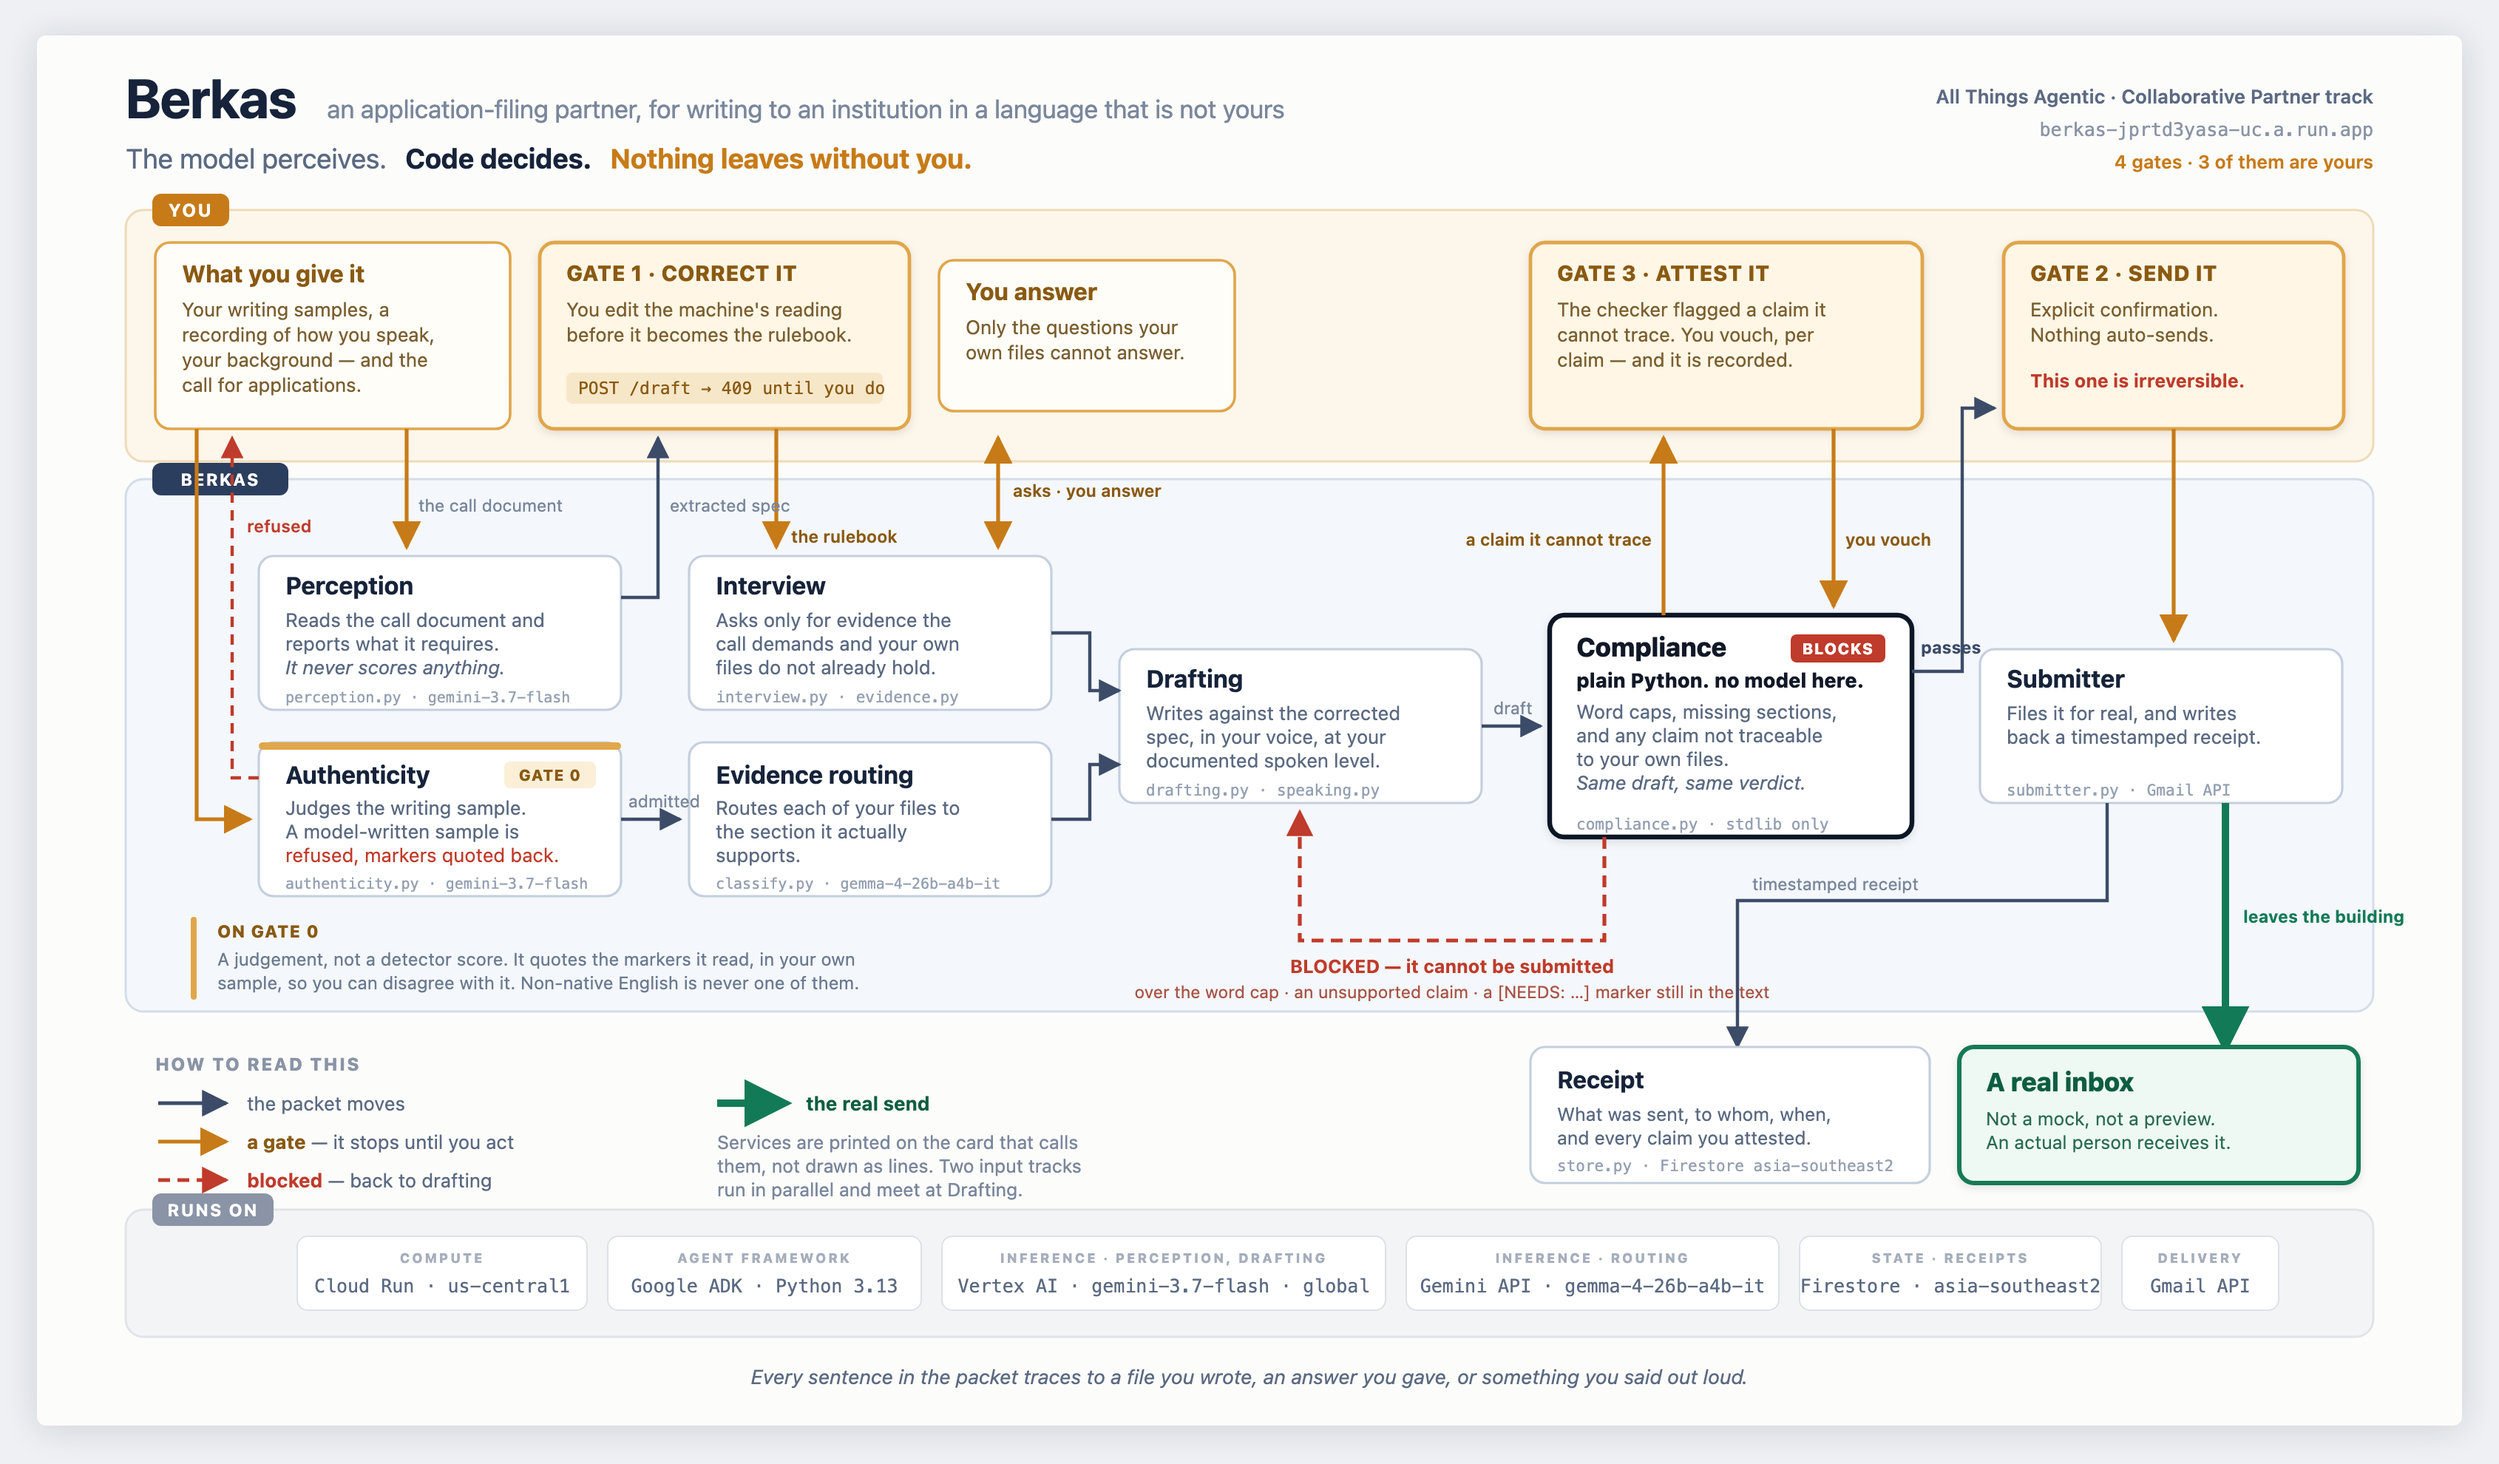
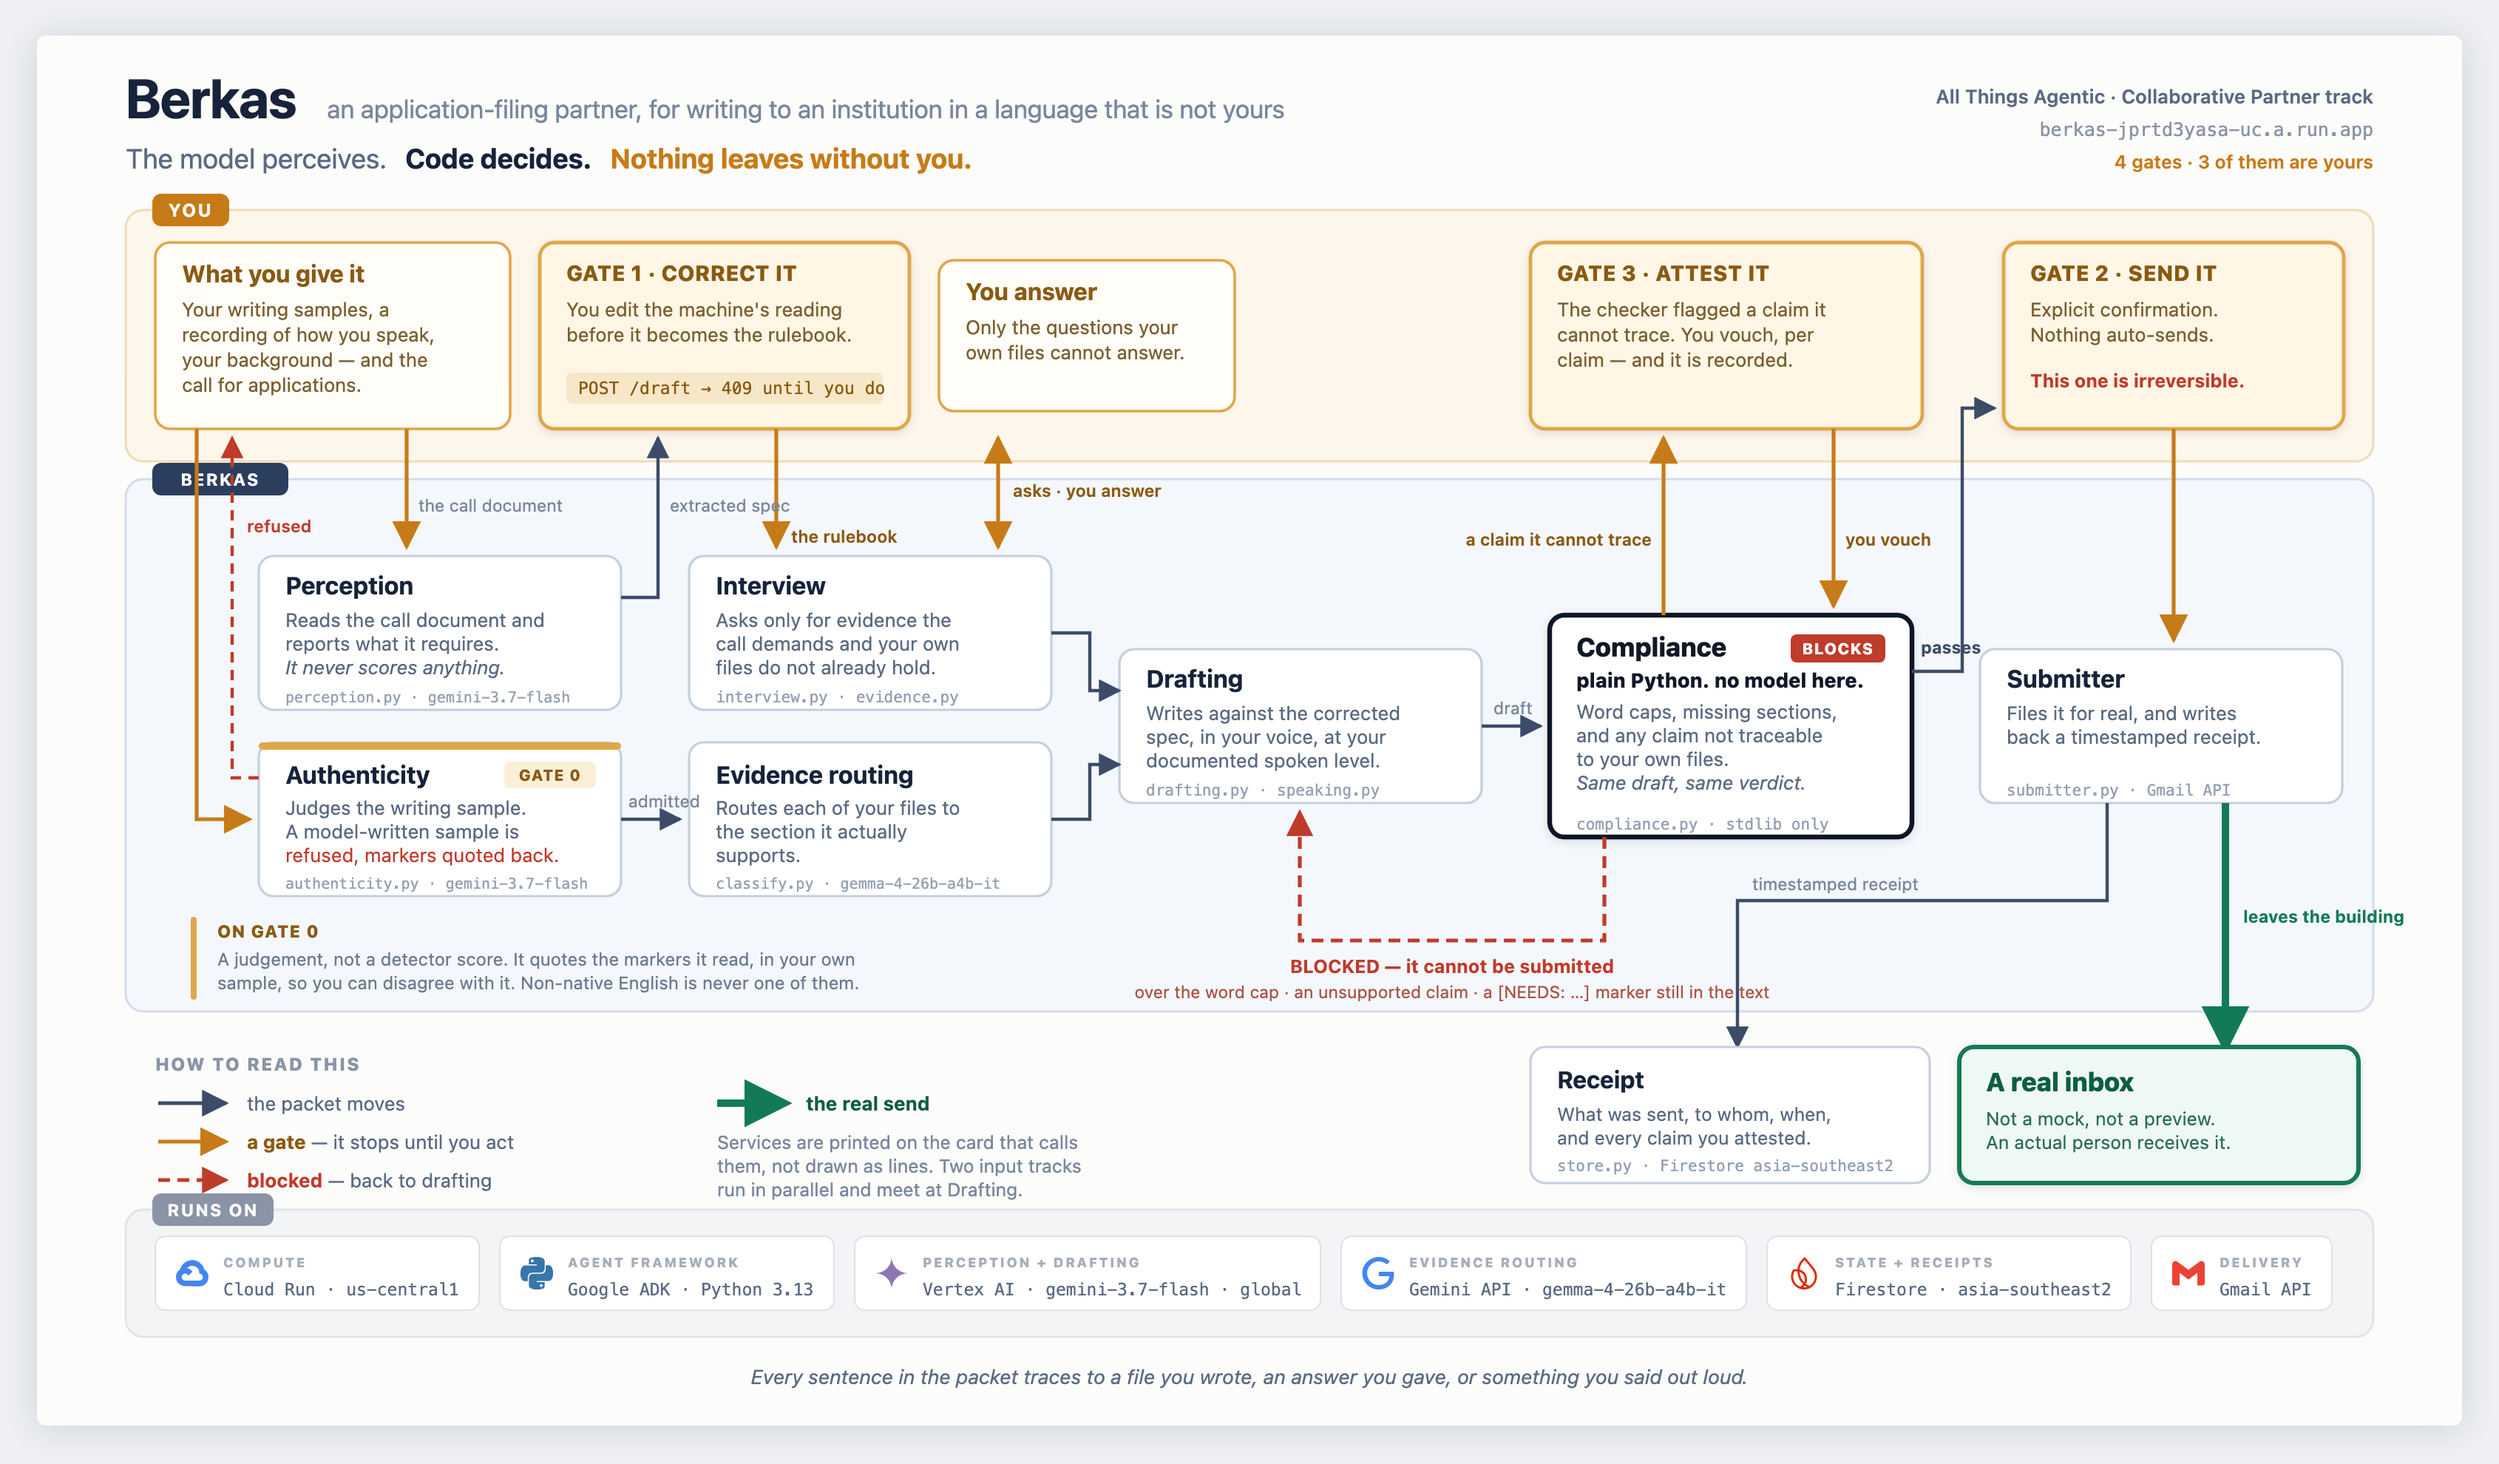
Diagram: real brand marks in the RUNS ON strip, inlined so it renders offline

Changed region(s): [[0.0621, 0.8318, 0.932, 0.8934]]

diff --git a/docs/architecture.html b/docs/architecture.html
@@ -203,29 +203,30 @@
 
 <!-- ============ RUNS ON ============ -->
 <g>
-  <rect x="176" y="812" width="196" height="50" rx="7" fill="#FFF" stroke="#DDE1E7"/>
-  <text x="274" y="830" text-anchor="middle" font-size="9" font-weight="800" fill="#A6AEBC" letter-spacing="1.3">COMPUTE</text>
-  <text x="274" y="850" text-anchor="middle" font-size="12.5" class="m" fill="#5B6A82">Cloud Run · us-central1</text>
-
-  <rect x="386" y="812" width="212" height="50" rx="7" fill="#FFF" stroke="#DDE1E7"/>
-  <text x="492" y="830" text-anchor="middle" font-size="9" font-weight="800" fill="#A6AEBC" letter-spacing="1.3">AGENT FRAMEWORK</text>
-  <text x="492" y="850" text-anchor="middle" font-size="12.5" class="m" fill="#5B6A82">Google ADK · Python 3.13</text>
-
-  <rect x="612" y="812" width="300" height="50" rx="7" fill="#FFF" stroke="#DDE1E7"/>
-  <text x="762" y="830" text-anchor="middle" font-size="9" font-weight="800" fill="#A6AEBC" letter-spacing="1.3">INFERENCE · PERCEPTION, DRAFTING</text>
-  <text x="762" y="850" text-anchor="middle" font-size="12.5" class="m" fill="#5B6A82">Vertex AI · gemini-3.7-flash · global</text>
-
-  <rect x="926" y="812" width="252" height="50" rx="7" fill="#FFF" stroke="#DDE1E7"/>
-  <text x="1052" y="830" text-anchor="middle" font-size="9" font-weight="800" fill="#A6AEBC" letter-spacing="1.3">INFERENCE · ROUTING</text>
-  <text x="1052" y="850" text-anchor="middle" font-size="12.5" class="m" fill="#5B6A82">Gemini API · gemma-4-26b-a4b-it</text>
-
-  <rect x="1192" y="812" width="204" height="50" rx="7" fill="#FFF" stroke="#DDE1E7"/>
-  <text x="1294" y="830" text-anchor="middle" font-size="9" font-weight="800" fill="#A6AEBC" letter-spacing="1.3">STATE · RECEIPTS</text>
-  <text x="1294" y="850" text-anchor="middle" font-size="12.5" class="m" fill="#5B6A82">Firestore · asia-southeast2</text>
-
-  <rect x="1410" y="812" width="106" height="50" rx="7" fill="#FFF" stroke="#DDE1E7"/>
-  <text x="1463" y="830" text-anchor="middle" font-size="9" font-weight="800" fill="#A6AEBC" letter-spacing="1.3">DELIVERY</text>
-  <text x="1463" y="850" text-anchor="middle" font-size="12.5" class="m" fill="#5B6A82">Gmail API</text>
+  <rect x="80" y="812" width="219" height="50" rx="7" fill="#FFF" stroke="#DDE1E7"/>
+  <g transform="translate(94,826) scale(0.91667)"><path d="M12.19 2.38a9.344 9.344 0 0 0-9.234 6.893c.053-.02-.055.013 0 0-3.875 2.551-3.922 8.11-.247 10.941l.006-.007-.007.03a6.717 6.717 0 0 0 4.077 1.356h5.173l.03.03h5.192c6.687.053 9.376-8.605 3.835-12.35a9.365 9.365 0 0 0-2.821-4.552l-.043.043.006-.05A9.344 9.344 0 0 0 12.19 2.38zm-.358 4.146c1.244-.04 2.518.368 3.486 1.15a5.186 5.186 0 0 1 1.862 4.078v.518c3.53-.07 3.53 5.262 0 5.193h-5.193l-.008.009v-.04H6.785a2.59 2.59 0 0 1-1.067-.23h.001a2.597 2.597 0 1 1 3.437-3.437l3.013-3.012A6.747 6.747 0 0 0 8.11 8.24c.018-.01.04-.026.054-.023a5.186 5.186 0 0 1 3.67-1.69z" fill="#4285F4"/></g>
+  <text x="126" y="833" font-size="9" font-weight="800" fill="#A6AEBC" letter-spacing="1.2">COMPUTE</text>
+  <text x="126" y="852" font-size="11.5" class="m" fill="#5B6A82">Cloud Run · us-central1</text>
+  <rect x="313" y="812" width="226" height="50" rx="7" fill="#FFF" stroke="#DDE1E7"/>
+  <g transform="translate(327,826) scale(0.91667)"><path d="M14.25.18l.9.2.73.26.59.3.45.32.34.34.25.34.16.33.1.3.04.26.02.2-.01.13V8.5l-.05.63-.13.55-.21.46-.26.38-.3.31-.33.25-.35.19-.35.14-.33.1-.3.07-.26.04-.21.02H8.77l-.69.05-.59.14-.5.22-.41.27-.33.32-.27.35-.2.36-.15.37-.1.35-.07.32-.04.27-.02.21v3.06H3.17l-.21-.03-.28-.07-.32-.12-.35-.18-.36-.26-.36-.36-.35-.46-.32-.59-.28-.73-.21-.88-.14-1.05-.05-1.23.06-1.22.16-1.04.24-.87.32-.71.36-.57.4-.44.42-.33.42-.24.4-.16.36-.1.32-.05.24-.01h.16l.06.01h8.16v-.83H6.18l-.01-2.75-.02-.37.05-.34.11-.31.17-.28.25-.26.31-.23.38-.2.44-.18.51-.15.58-.12.64-.1.71-.06.77-.04.84-.02 1.27.05zm-6.3 1.98l-.23.33-.08.41.08.41.23.34.33.22.41.09.41-.09.33-.22.23-.34.08-.41-.08-.41-.23-.33-.33-.22-.41-.09-.41.09zm13.09 3.95l.28.06.32.12.35.18.36.27.36.35.35.47.32.59.28.73.21.88.14 1.04.05 1.23-.06 1.23-.16 1.04-.24.86-.32.71-.36.57-.4.45-.42.33-.42.24-.4.16-.36.09-.32.05-.24.02-.16-.01h-8.22v.82h5.84l.01 2.76.02.36-.05.34-.11.31-.17.29-.25.25-.31.24-.38.2-.44.17-.51.15-.58.13-.64.09-.71.07-.77.04-.84.01-1.27-.04-1.07-.14-.9-.2-.73-.25-.59-.3-.45-.33-.34-.34-.25-.34-.16-.33-.1-.3-.04-.25-.02-.2.01-.13v-5.34l.05-.64.13-.54.21-.46.26-.38.3-.32.33-.24.35-.2.35-.14.33-.1.3-.06.26-.04.21-.02.13-.01h5.84l.69-.05.59-.14.5-.21.41-.28.33-.32.27-.35.2-.36.15-.36.1-.35.07-.32.04-.28.02-.21V6.07h2.09l.14.01zm-6.47 14.25l-.23.33-.08.41.08.41.23.33.33.23.41.08.41-.08.33-.23.23-.33.08-.41-.08-.41-.23-.33-.33-.23-.41-.08-.41.08z" fill="#3776AB"/></g>
+  <text x="359" y="833" font-size="9" font-weight="800" fill="#A6AEBC" letter-spacing="1.2">AGENT FRAMEWORK</text>
+  <text x="359" y="852" font-size="11.5" class="m" fill="#5B6A82">Google ADK · Python 3.13</text>
+  <rect x="553" y="812" width="315" height="50" rx="7" fill="#FFF" stroke="#DDE1E7"/>
+  <g transform="translate(567,826) scale(0.91667)"><path d="M11.04 19.32Q12 21.51 12 24q0-2.49.93-4.68.96-2.19 2.58-3.81t3.81-2.55Q21.51 12 24 12q-2.49 0-4.68-.93a12.3 12.3 0 0 1-3.81-2.58 12.3 12.3 0 0 1-2.58-3.81Q12 2.49 12 0q0 2.49-.96 4.68-.93 2.19-2.55 3.81a12.3 12.3 0 0 1-3.81 2.58Q2.49 12 0 12q2.49 0 4.68.96 2.19.93 3.81 2.55t2.55 3.81" fill="#8E75B2"/></g>
+  <text x="599" y="833" font-size="9" font-weight="800" fill="#A6AEBC" letter-spacing="1.2">PERCEPTION + DRAFTING</text>
+  <text x="599" y="852" font-size="11.5" class="m" fill="#5B6A82">Vertex AI · gemini-3.7-flash · global</text>
+  <rect x="882" y="812" width="274" height="50" rx="7" fill="#FFF" stroke="#DDE1E7"/>
+  <g transform="translate(896,826) scale(0.91667)"><path d="M12.48 10.92v3.28h7.84c-.24 1.84-.853 3.187-1.787 4.133-1.147 1.147-2.933 2.4-6.053 2.4-4.827 0-8.6-3.893-8.6-8.72s3.773-8.72 8.6-8.72c2.6 0 4.507 1.027 5.907 2.347l2.307-2.307C18.747 1.44 16.133 0 12.48 0 5.867 0 .307 5.387.307 12s5.56 12 12.173 12c3.573 0 6.267-1.173 8.373-3.36 2.16-2.16 2.84-5.213 2.84-7.667 0-.76-.053-1.467-.173-2.053H12.48z" fill="#4285F4"/></g>
+  <text x="928" y="833" font-size="9" font-weight="800" fill="#A6AEBC" letter-spacing="1.2">EVIDENCE ROUTING</text>
+  <text x="928" y="852" font-size="11.5" class="m" fill="#5B6A82">Gemini API · gemma-4-26b-a4b-it</text>
+  <rect x="1170" y="812" width="246" height="50" rx="7" fill="#FFF" stroke="#DDE1E7"/>
+  <g transform="translate(1184,826) scale(0.91667)"><path d="M19.455 8.369c-.538-.748-1.778-2.285-3.681-4.569-.826-.991-1.535-1.832-1.884-2.245a146 146 0 0 0-.488-.576l-.207-.245-.113-.133-.022-.032-.01-.005L12.57 0l-.609.488c-1.555 1.246-2.828 2.851-3.681 4.64-.523 1.064-.864 2.105-1.043 3.176-.047.241-.088.489-.121.738-.209-.017-.421-.028-.632-.033-.018-.001-.035-.002-.059-.003a7.46 7.46 0 0 0-2.28.274l-.317.089-.163.286c-.765 1.342-1.198 2.869-1.252 4.416-.07 2.01.477 3.954 1.583 5.625 1.082 1.633 2.61 2.882 4.42 3.611l.236.095.071.025.003-.001a9.59 9.59 0 0 0 2.941.568q.171.006.342.006c1.273 0 2.513-.249 3.69-.742l.008.004.313-.145a9.63 9.63 0 0 0 3.927-3.335c1.01-1.49 1.577-3.234 1.641-5.042.075-2.161-.643-4.304-2.133-6.371m-7.083 6.695c.328 1.244.264 2.44-.191 3.558-1.135-1.12-1.967-2.352-2.475-3.665-.543-1.404-.87-2.74-.974-3.975.48.157.922.366 1.315.622 1.132.737 1.914 1.902 2.325 3.461zm.207 6.022c.482.368.99.712 1.513 1.028-.771.21-1.565.302-2.369.273a8 8 0 0 1-.373-.022c.458-.394.869-.823 1.228-1.279zm1.347-6.431c-.516-1.957-1.527-3.437-3.002-4.398-.647-.421-1.385-.741-2.194-.95.011-.134.026-.268.043-.4.014-.113.03-.216.046-.313.133-.689.332-1.37.589-2.025.099-.25.206-.499.321-.74l.004-.008c.177-.358.376-.719.61-1.105l.092-.152-.003-.001c.544-.851 1.197-1.627 1.942-2.311l.288.341c.672.796 1.304 1.548 1.878 2.237 1.291 1.549 2.966 3.583 3.612 4.48 1.277 1.771 1.893 3.579 1.83 5.375-.049 1.395-.461 2.755-1.195 3.933-.694 1.116-1.661 2.05-2.8 2.708-.636-.318-1.559-.839-2.539-1.599.79-1.575.952-3.28.479-5.072zm-2.575 5.397c-.725.939-1.587 1.55-2.09 1.856-.081-.029-.163-.06-.243-.093l-.065-.026c-1.49-.616-2.747-1.656-3.635-3.01-.907-1.384-1.356-2.993-1.298-4.653.041-1.19.338-2.327.882-3.379.316-.07.638-.114.96-.131l.084-.002c.162-.003.324-.003.478 0 .227.011.454.035.677.07.073 1.513.445 3.145 1.105 4.852.637 1.644 1.694 3.162 3.144 4.515z" fill="#DD2C00"/></g>
+  <text x="1216" y="833" font-size="9" font-weight="800" fill="#A6AEBC" letter-spacing="1.2">STATE + RECEIPTS</text>
+  <text x="1216" y="852" font-size="11.5" class="m" fill="#5B6A82">Firestore · asia-southeast2</text>
+  <rect x="1430" y="812" width="122" height="50" rx="7" fill="#FFF" stroke="#DDE1E7"/>
+  <g transform="translate(1444,826) scale(0.91667)"><path d="M24 5.457v13.909c0 .904-.732 1.636-1.636 1.636h-3.819V11.73L12 16.64l-6.545-4.91v9.273H1.636A1.636 1.636 0 0 1 0 19.366V5.457c0-2.023 2.309-3.178 3.927-1.964L5.455 4.64 12 9.548l6.545-4.91 1.528-1.145C21.69 2.28 24 3.434 24 5.457z" fill="#EA4335"/></g>
+  <text x="1476" y="833" font-size="9" font-weight="800" fill="#A6AEBC" letter-spacing="1.2">DELIVERY</text>
+  <text x="1476" y="852" font-size="11.5" class="m" fill="#5B6A82">Gmail API</text>
 </g>
 
 <!-- ============ FOOTER ============ -->
